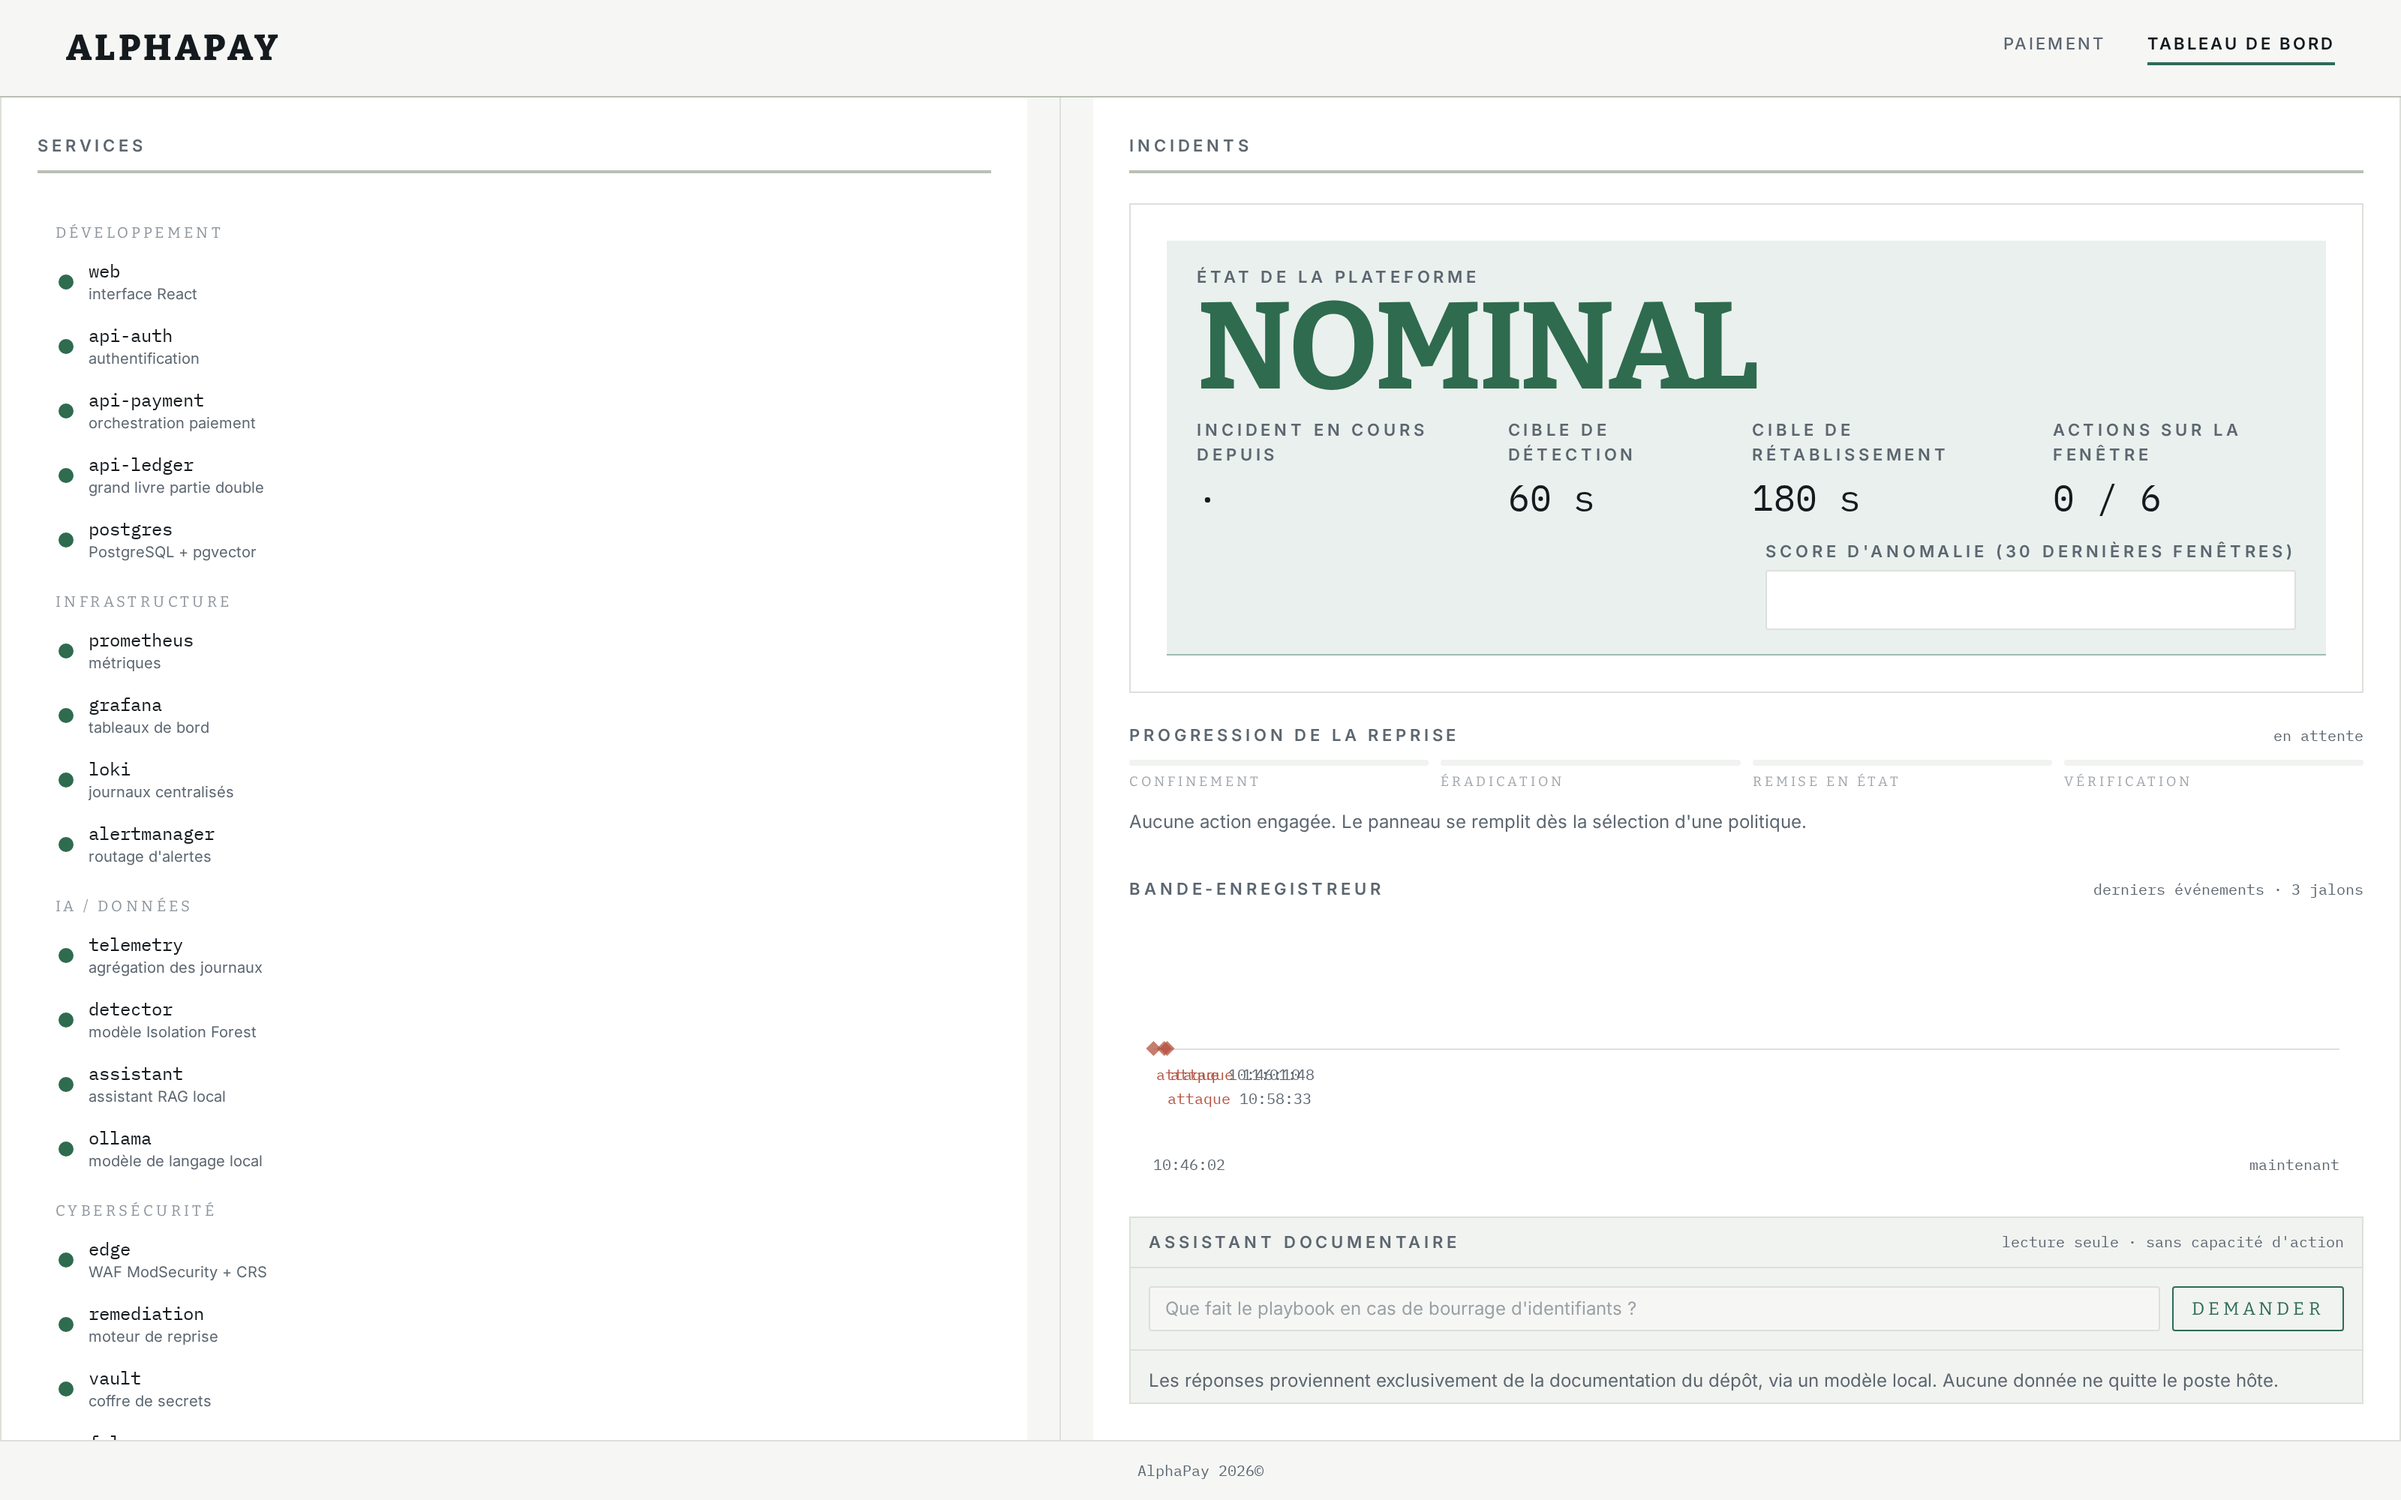
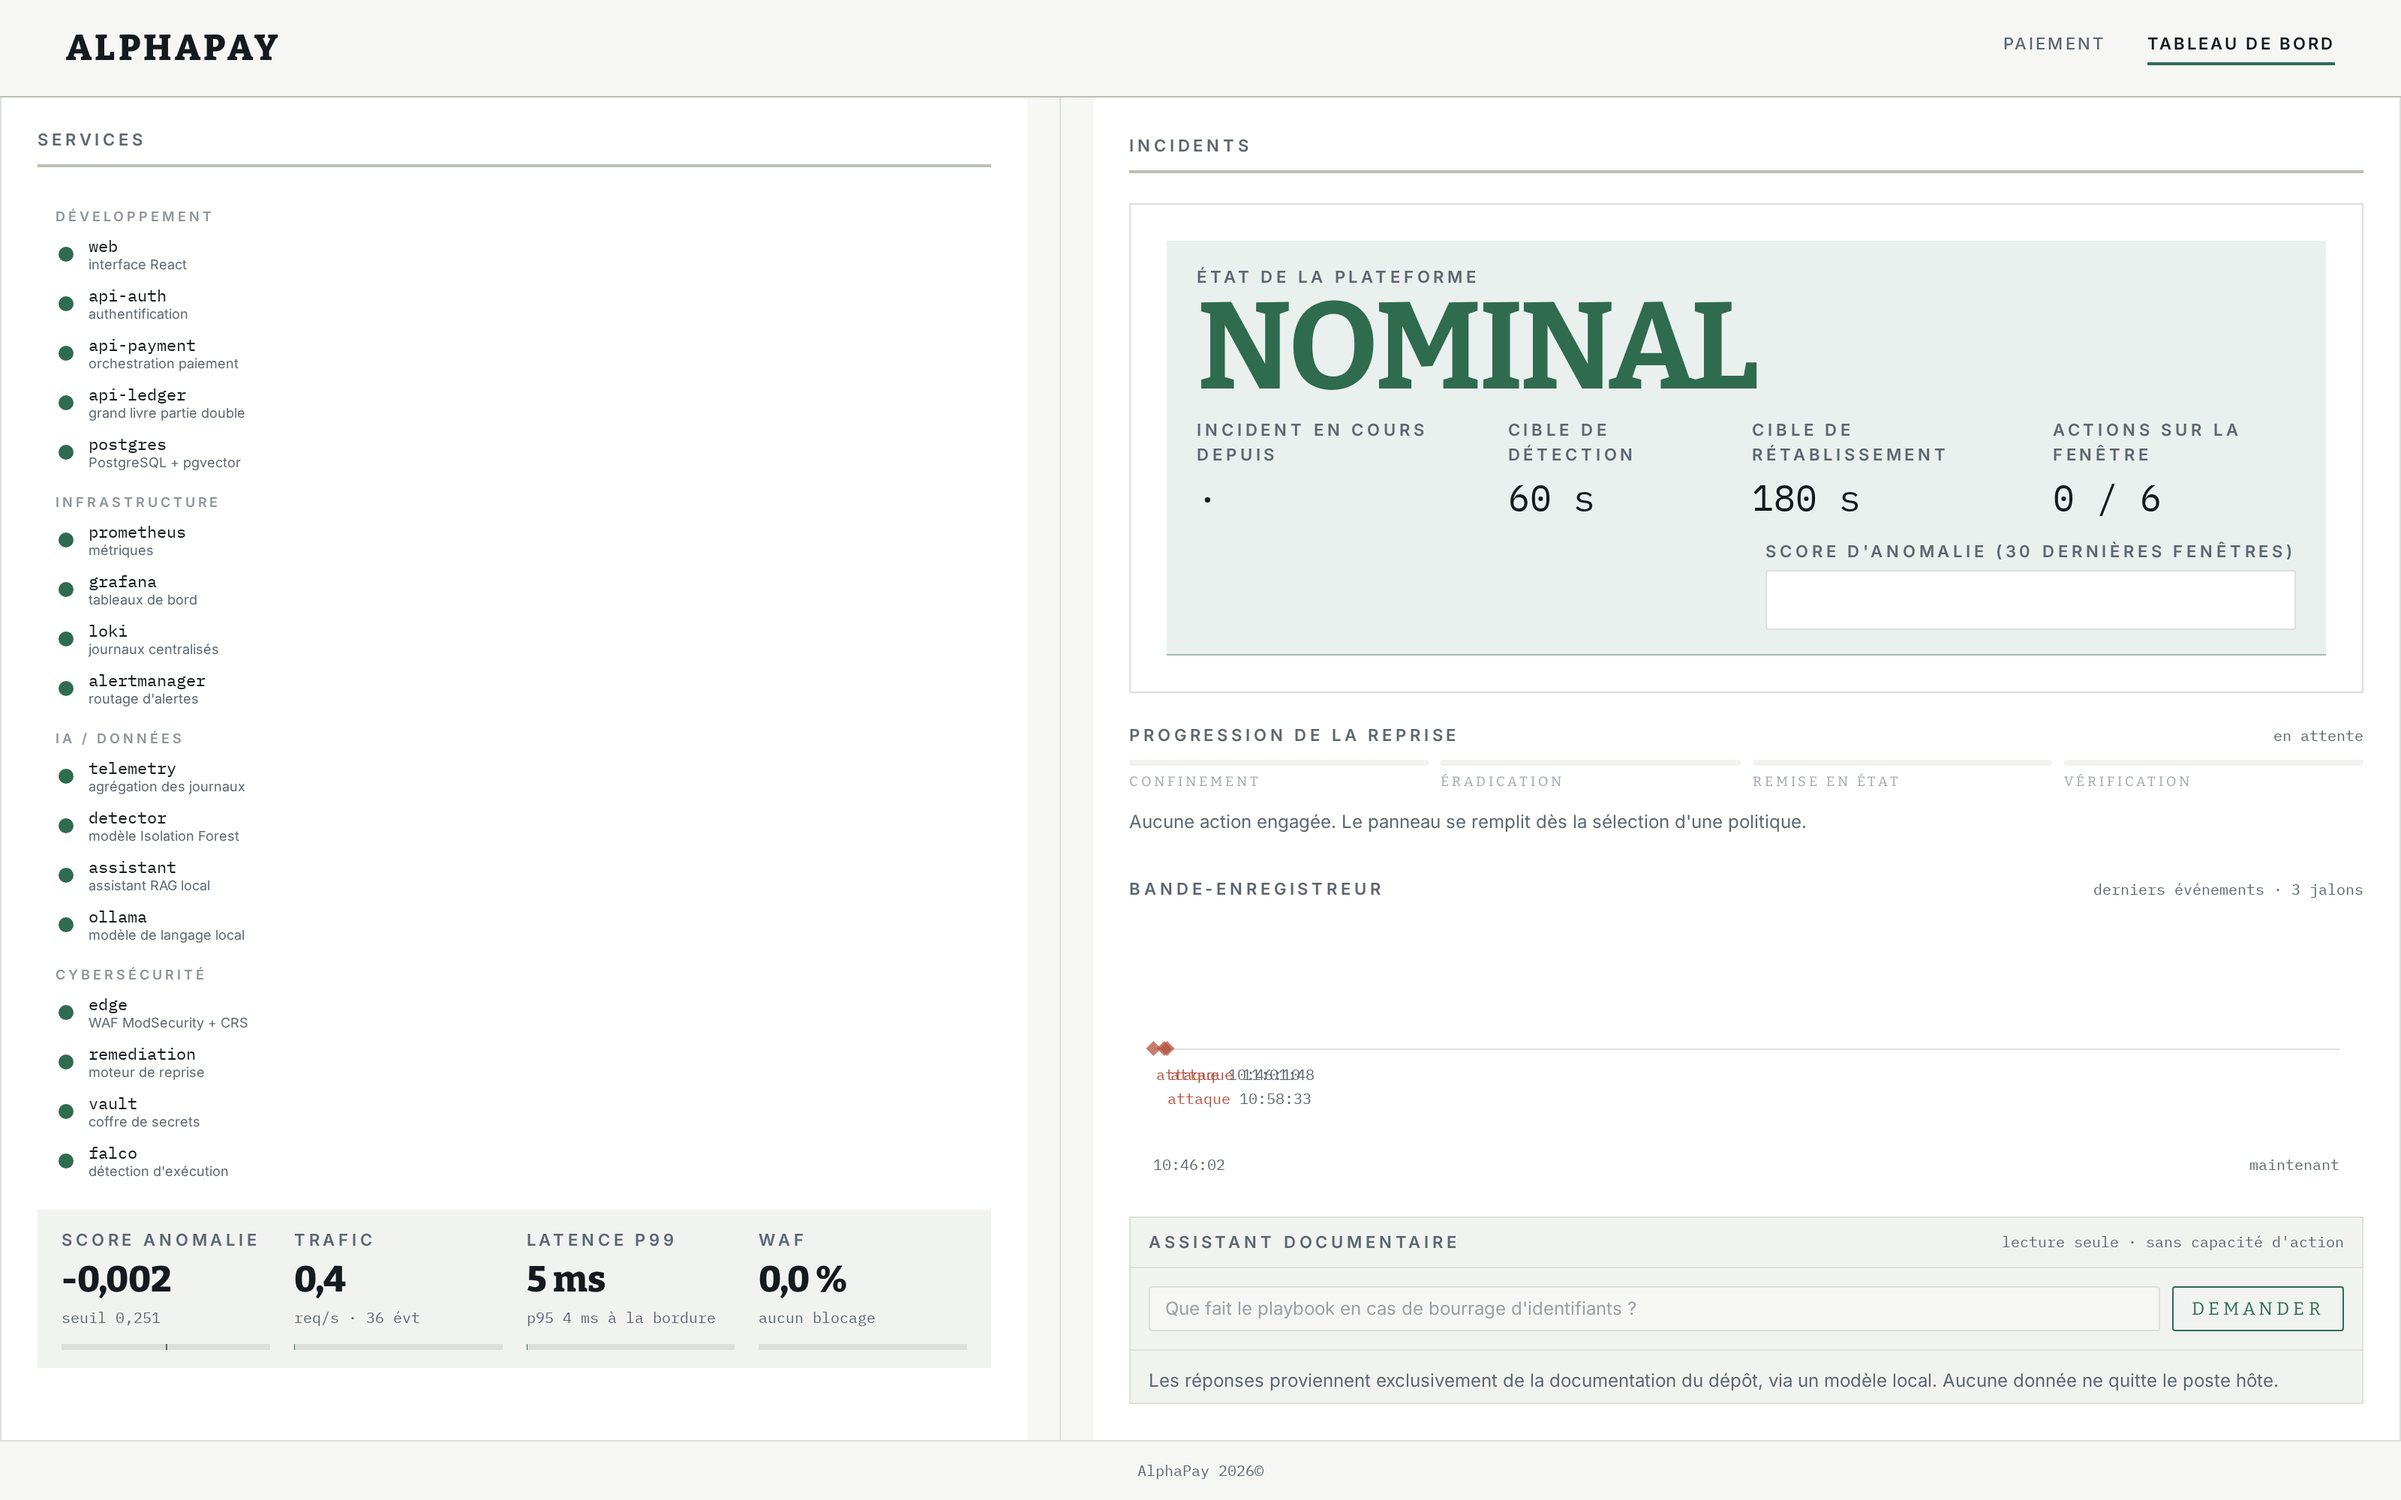
Rail des services compacte et sans groupe gouvernance : les mesures tiennent dans le feuillet

Changed region(s): [[0.0, 0.093, 0.4062, 0.899], [0.2188, 0.806, 0.375, 0.899], [0.125, 0.837, 0.1875, 0.899]]

diff --git a/frontend/src/components/ServiceRail.tsx b/frontend/src/components/ServiceRail.tsx
@@ -28,7 +28,6 @@ const COLONNES: Array<{ cle: EtatComposant["colonne"]; libelle: string }> = [
   { cle: "infra", libelle: "Infrastructure" },
   { cle: "ia", libelle: "IA / Données" },
   { cle: "cyber", libelle: "Cybersécurité" },
-  { cle: "gouvernance", libelle: "Gouvernance" },
 ];
 
 export default function ServiceRail({
@@ -51,7 +50,7 @@ export default function ServiceRail({
           if (lot.length === 0) return null;
           return (
             <div key={cle}>
-              <div className="px-3 pt-3 pb-1 text-[0.625rem] font-display uppercase tracking-marque text-ink-dim/70">
+              <div className="px-3 pt-2.5 pb-0.5 font-sans text-[0.5625rem] font-semibold uppercase tracking-marque text-ink-dim/70">
                 {libelle}
               </div>
               {lot.map((composant) => {
@@ -61,16 +60,18 @@ export default function ServiceRail({
                   <div
                     key={composant.nom}
                     className={[
-                      "flex items-center gap-2.5 px-3 py-1.5 border-l-2",
+                      "flex items-center gap-2.5 px-3 py-1 border-l-2",
                       vise ? "border-l-accent bg-accent/5" : "border-l-transparent",
                     ].join(" ")}
                   >
                     <span className={`pastille ${style.pastille} ${style.forme}`} />
                     <div className="min-w-0 flex-1">
-                      <div className={`text-xs font-mono truncate ${style.texte}`}>
+                      <div className={`text-[0.6875rem] leading-tight font-mono truncate ${style.texte}`}>
                         {composant.nom}
                       </div>
-                      <div className="text-[0.625rem] text-ink-dim truncate">{composant.role}</div>
+                      <div className="text-[0.5625rem] leading-tight text-ink-dim truncate">
+                        {composant.role}
+                      </div>
                     </div>
                     {composant.detail && (
                       <span className="text-[0.625rem] font-mono text-ink-dim shrink-0">
@@ -109,7 +110,5 @@ export function composantsAttendus(etat: EtatSupervision | null): EtatComposant[
     { nom: "grafana", role: "tableaux de bord", colonne: "infra", sante: "ok" },
     { nom: "loki", role: "journaux centralisés", colonne: "infra", sante: "ok" },
     { nom: "alertmanager", role: "routage d'alertes", colonne: "infra", sante: "ok" },
-    { nom: "politiques", role: `${etat?.registry?.policies ?? 0} politiques actives`, colonne: "gouvernance", sante: "ok" },
-    { nom: "playbooks", role: `${etat?.registry?.playbooks ?? 0} playbooks déclaratifs`, colonne: "gouvernance", sante: "ok" },
   ];
 }

diff --git a/frontend/src/pages/Ops.tsx b/frontend/src/pages/Ops.tsx
@@ -64,7 +64,7 @@ export default function Ops() {
   return (
     <main className="min-h-0 flex-1 grid grid-cols-1 grid-rows-[minmax(0,1fr)_auto] xl:grid-cols-ops bg-base">
       {/* --- Feuillet des services ------------------------------------------ */}
-      <section className="flex min-h-0 flex-col gap-5 overflow-y-auto border-line bg-surface px-6 py-6 xl:border-l">
+      <section className="flex min-h-0 flex-col gap-4 overflow-y-auto border-line bg-surface px-6 py-5 xl:border-l">
         <TitreFeuillet>Services</TitreFeuillet>
         <ServiceRail composants={composants} incident={etat.donnees?.incident ?? null} />
         <BandesMesures fenetre={fenetre.donnees} detection={detection.donnees} />
